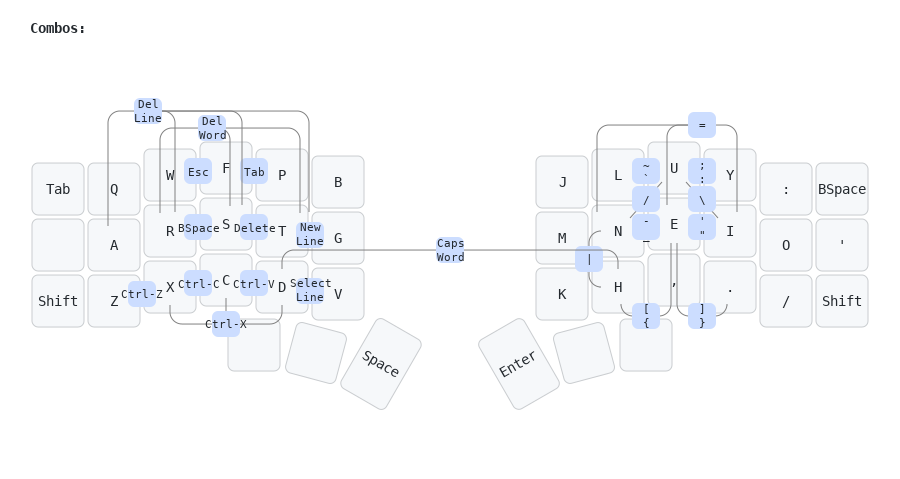
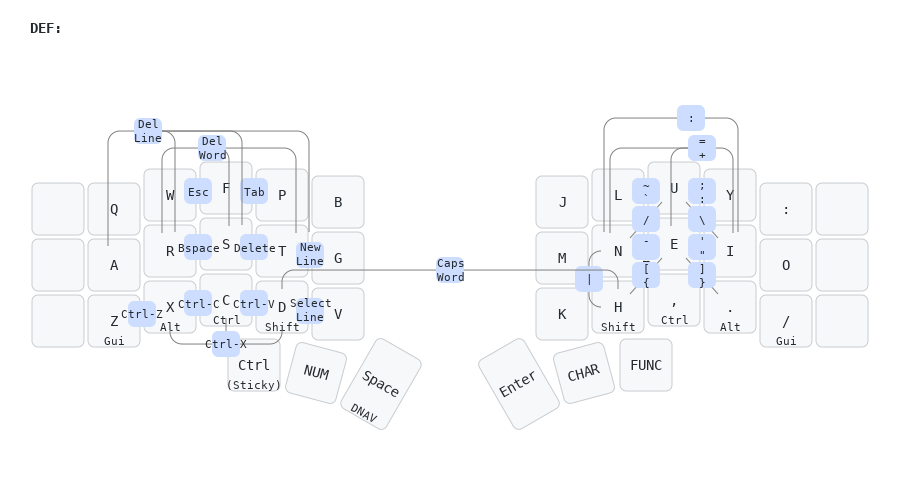
Add Direct Colon combo

diff --git a/readme.md b/readme.md
@@ -28,6 +28,7 @@ These are simple horizontal combos, easy to roll while typing. The keys can acce
 * N-E: Dash / Underscore
 * E-I: Single Quote / Double Quotes
 * N-E-I: Equal / Plus
+* N-I: Colon
 * L-U: Tildae 
   * Mod-morph to output backquote on Shift
 * U-Y: Semi-colon / colon
